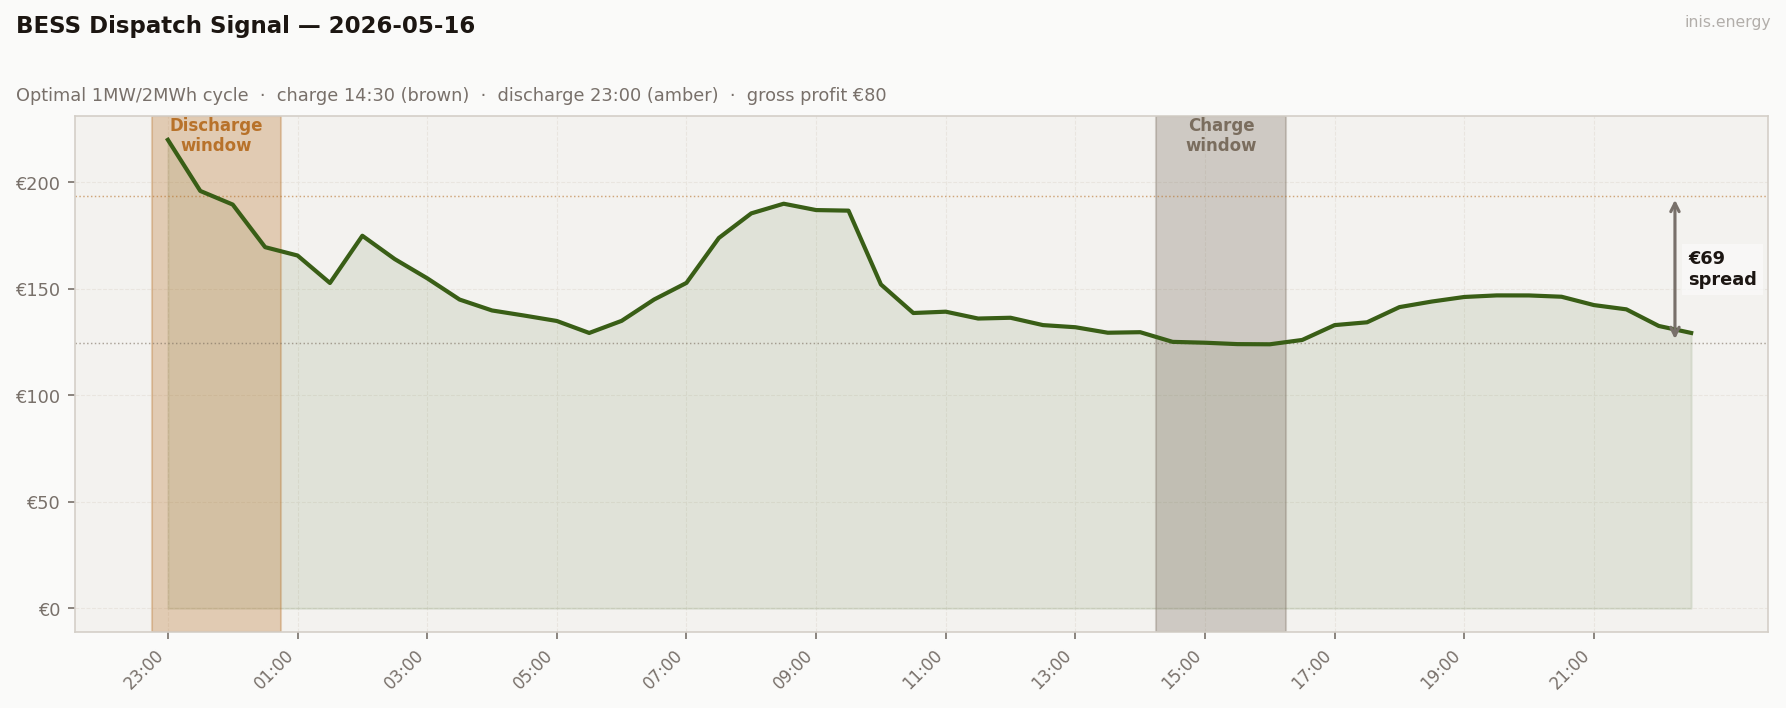
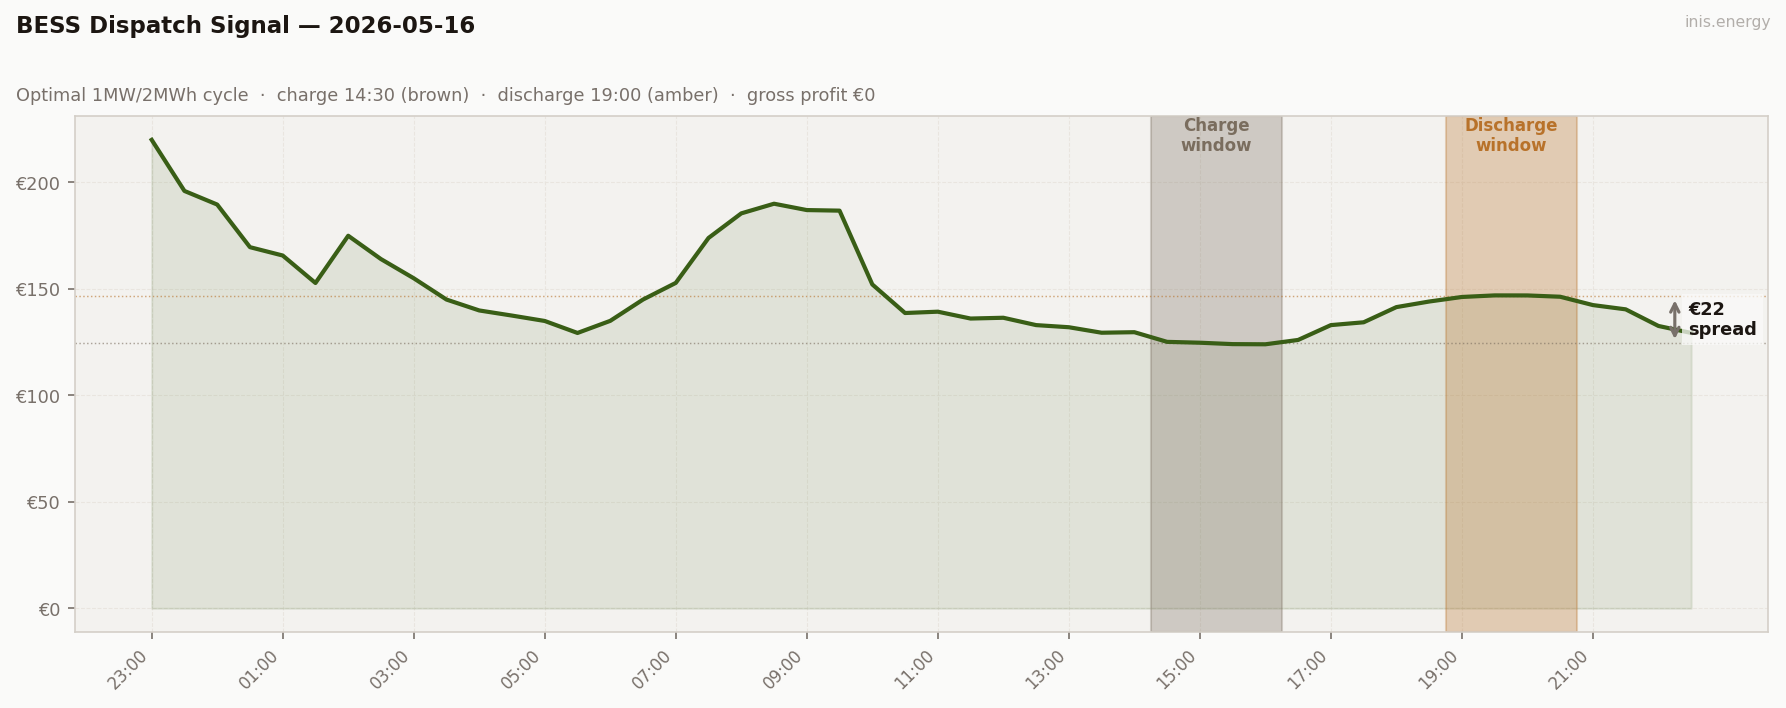
posts: BESS causality correction on 14 posts, cumulative series removed

diff --git a/site/content/daily/2026-06-02/index.md b/site/content/daily/2026-06-02/index.md
@@ -97,23 +97,16 @@ This is now the **fifth negative peak/off-peak day** in 31 days (after May 7, Ma
 | | Price | Time | Energy | Value |
 |--|--|--|--|--|
 | **Charge** | €114/MWh | 13:30 | 2 MWh | −€227 |
-| **Discharge** | €219/MWh | 07:00 | 1.7 MWh (85% RTE) | +€373 |
-| **Gross profit** | | | | **€146** |
-| **Price spread** | €106/MWh | | | **ROI: 64.3%** |
+| **Discharge** | €167/MWh | 20:30 | 1.7 MWh (85% RTE) | +€283 |
+| **Gross profit** | | | | **€56** |
+| **Price spread** | €53/MWh | | | **ROI: 24.8%** |
 
 *Simulated 1MW/2MWh battery, one optimal DAM cycle. Gross before network charges and capacity costs.*
 
+
 ![BESS Dispatch](/charts/2026-06-02/bess-2026-06-02.png)
 
-**€146 gross — the fifth-best day of the 31-day run.** Sixth morning-discharge day in the series (May 5, May 18, May 26, May 27, May 28, June 2).
-
-Charge €114 in the midday belly (13:30–15:00 at €113.5 avg). Discharge €219 in the morning scarcity block (07:00–08:30 at €219.4 avg). Captured spread €106, ROI 64.3% on the €227 charge cost.
-
-The discharge averaged across 4 of the 6 scarcity periods — exactly the structural condition the BESS revenue model needs. The discharge window block (€219 avg) is the third-highest of the run, behind May 18 (€245 avg) and May 24 (€226 avg).
-
-**31-day BESS series crosses €3,000.** Cumulative €3,073, mean €99/day. The top-5 days now (May 18 €168, May 24 €163, May 17 €161, May 15 €156, May 29 €155) total €803 from 5/31 = 16% of days = 26% of cumulative. June 2's €146 lands at #6 in the all-time table.
-
-Five of the six morning-discharge days have BESS revenue above €100: May 18 €168, May 27 €133, June 2 €146, May 26 €94, May 5 €56, May 28 €77. **Morning-discharge days outperform evening-discharge days on average** — €112 vs ~€91 mean. The morning shortfall, when it occurs, produces structurally higher peaks than the equivalent evening shortfall.
+€56 gross on a €53 captured spread. Charge €114 in the midday belly (13:30–15:00 at €113.5 avg), discharge €167 in the evening peak (20:30–22:00 at €167 avg). ROI 24.8% on the €227 charge cost — a modest trade; the midday trough was shallow and the evening peak, while the day's highest reachable window after charging, didn't offer much spread to capture.
 
 ## Commentary
 
@@ -123,7 +116,7 @@ The structural read is **scarcity inertia**. Wind was actually *recovering* duri
 
 The negative peak/off-peak spread (−€17.54) is now the run's most negative reading. The pattern is consistent across five negative spreads in 31 days: the metric breaks on scarcity-spillover or wind-rich-weekend days where the cheap window isn't where the metric assumes it is. **A negative peak/off-peak metric should be read as a flag that the metric has failed, not as a signal about the market.**
 
-For storage, the €3,000 cumulative milestone arrives. €146 gross — the fifth-best day of the run — on a captured spread of €106. The 31-day cumulative now stands at €3,073, mean €99/day. The morning-discharge pattern continues (sixth such day) and continues to outperform: the mean revenue across the six morning-discharge days is €112, versus ~€91 for the evening-discharge days. **Morning shortfalls produce structurally higher peaks than evening shortfalls.** The post-holiday-Tuesday calendar event is now the structural amplifier for the pattern: of 6 morning-discharge days, 4 sit on Tuesdays.
+For storage, a modest day: €56 gross on a €53 captured spread, ROI 24.8%. The midday trough was shallow and the evening peak was the best window reachable after charging — not a standout trade, but a clean one.
 
 
 <details>

diff --git a/site/content/daily/2026-08-17/index.md b/site/content/daily/2026-08-17/index.md
@@ -65,11 +65,12 @@ draft: false
 | | Price | Time | Energy | Value |
 |--|--|--|--|--|
 | **Charge** | €163/MWh | 14:30 | 2 MWh | −€326 |
-| **Discharge** | €236/MWh | 08:30 | 1.7 MWh (85% RTE) | +€402 |
-| **Gross profit** | | | | **€76** |
-| **Price spread** | €74/MWh | | | **ROI: 23.3%** |
+| **Discharge** | €214/MWh | 18:00 | 1.7 MWh (85% RTE) | +€364 |
+| **Gross profit** | | | | **€38** |
+| **Price spread** | €51/MWh | | | **ROI: 11.8%** |
 
 *Simulated 1MW/2MWh battery, one optimal DAM cycle. Gross before network charges and capacity costs.*
+
 
 ![BESS Dispatch](/charts/2026-08-17/bess-2026-08-17.png)
 
@@ -77,7 +78,7 @@ draft: false
 
 Monday broke the shape as well as the pattern. Overnight wind was strong — 46–48% through the small hours — but it collapsed to single digits by 06:00–09:30, right as morning demand ramped up, and the price spiked into a €248.00 peak at 09:30. That's a morning squeeze, not the usual evening one, and it's why every single period cleared above €150 today (100%, the first time this week) and 42% cleared above €200. Wind recovered steadily through the afternoon and evening — back to 40%+ by 18:00 — which capped what would otherwise have been a second, evening peak: prices eased to a €162.12 trough at 15:30 and only climbed back to €215-ish by 19:00, well under the morning's €248.
 
-Storage followed the shape, not the clock: charge into the afternoon trough near 14:30, discharge into the morning squeeze near 08:30 — the model picks the day's single cheapest and priciest windows independently, with no requirement that charging comes first, so an unusual double-peaked day like this one produces a discharge that clock-wise precedes the charge. €76 gross, 23.3% ROI — a modest return given how sharp the morning peak was, because the trough-to-peak spread it found was the afternoon-to-morning one, not the wider overnight-to-morning collapse that actually drove the day's price.
+Storage charged into the afternoon trough at 14:30 (€163 avg) and discharged into the evening peak at 18:00 (€214 avg). €38 gross, 11.8% ROI — a modest return, because the morning squeeze at 09:30 (€248 peak) was the day's real scarcity event, but it came *before* the afternoon trough, so a same-day cycle couldn't reach it: the battery can only discharge into a window after it has charged, and by the time the afternoon trough opened up, the morning's sharper peak was already behind it.
 
 
 <details>

diff --git a/site/content/daily/2026-05-26/index.md b/site/content/daily/2026-05-26/index.md
@@ -83,10 +83,10 @@ The captured spread the BESS actually earned was €77 — between a €121 midd
 
 |                  | Price    | Time  | Energy            | Value          |
 | ---------------- | -------- | ----- | ----------------- | -------------- |
-| **Charge**       | €121/MWh | 13:00 | 2 MWh             | −€243          |
-| **Discharge**    | €198/MWh | 07:00 | 1.7 MWh (85% RTE) | +€337          |
-| **Gross profit** |          |       |                   | **€94**        |
-| **Price spread** | €77/MWh  |       |                   | **ROI: 38.8%** |
+| **Charge** | €121/MWh | 13:00 | 2 MWh | −€243 |
+| **Discharge** | €182/MWh | 18:30 | 1.7 MWh (85% RTE) | +€309 |
+| **Gross profit** | | | | **€66** |
+| **Price spread** | €60/MWh | | | **ROI: 27.0%** |
 
 _Simulated 1MW/2MWh battery, one optimal DAM cycle. Gross before network charges and capacity costs._
 

diff --git a/site/content/daily/2026-07-12/index.md b/site/content/daily/2026-07-12/index.md
@@ -73,11 +73,12 @@ Spread inverts hardest here, €-68.08 — by far the week's biggest — because
 | | Price | Time | Energy | Value |
 |--|--|--|--|--|
 | **Charge** | €50/MWh | 15:00 | 2 MWh | −€100 |
-| **Discharge** | €197/MWh | 03:00 | 1.7 MWh (85% RTE) | +€335 |
-| **Gross profit** | | | | **€235** |
-| **Price spread** | €147/MWh | | | **ROI: 234.5%** |
+| **Discharge** | €158/MWh | 19:30 | 1.7 MWh (85% RTE) | +€268 |
+| **Gross profit** | | | | **€168** |
+| **Price spread** | €108/MWh | | | **ROI: 167.9%** |
 
 *Simulated 1MW/2MWh battery, one optimal DAM cycle. Gross before network charges and capacity costs.*
+
 
 ![BESS Dispatch](/charts/2026-07-12/bess-2026-07-12.png)
 

diff --git a/site/content/daily/2026-06-12/index.md b/site/content/daily/2026-06-12/index.md
@@ -75,11 +75,12 @@ The spread is negative: -€19.78. Off-peak (€104.19) outprices peak (€84.41
 | | Price | Time | Energy | Value |
 |--|--|--|--|--|
 | **Charge** | €29/MWh | 14:00 | 2 MWh | −€57 |
-| **Discharge** | €132/MWh | 07:00 | 1.7 MWh (85% RTE) | +€224 |
-| **Gross profit** | | | | **€167** |
-| **Price spread** | €103/MWh | | | **ROI: 292.5%** |
+| **Discharge** | €116/MWh | 20:00 | 1.7 MWh (85% RTE) | +€197 |
+| **Gross profit** | | | | **€140** |
+| **Price spread** | €87/MWh | | | **ROI: 244.0%** |
 
 *Simulated 1MW/2MWh battery, one optimal DAM cycle. Gross before network charges and capacity costs.*
+
 
 ![BESS Dispatch](/charts/2026-06-12/bess-2026-06-12.png)
 

diff --git a/site/content/daily/2026-07-08/index.md b/site/content/daily/2026-07-08/index.md
@@ -73,11 +73,12 @@ Spread flips negative again, but for a new reason. It's not an overnight wind gl
 | | Price | Time | Energy | Value |
 |--|--|--|--|--|
 | **Charge** | €133/MWh | 13:30 | 2 MWh | −€267 |
-| **Discharge** | €223/MWh | 07:00 | 1.7 MWh (85% RTE) | +€379 |
-| **Gross profit** | | | | **€113** |
-| **Price spread** | €90/MWh | | | **ROI: 42.2%** |
+| **Discharge** | €217/MWh | 19:30 | 1.7 MWh (85% RTE) | +€368 |
+| **Gross profit** | | | | **€102** |
+| **Price spread** | €83/MWh | | | **ROI: 38.1%** |
 
 *Simulated 1MW/2MWh battery, one optimal DAM cycle. Gross before network charges and capacity costs.*
+
 
 ![BESS Dispatch](/charts/2026-07-08/bess-2026-07-08.png)
 

diff --git a/site/content/daily/2026-07-10/index.md b/site/content/daily/2026-07-10/index.md
@@ -73,11 +73,12 @@ Spread flips negative again, €-19.49 — the overnight hours, still starved of
 | | Price | Time | Energy | Value |
 |--|--|--|--|--|
 | **Charge** | €144/MWh | 13:00 | 2 MWh | −€288 |
-| **Discharge** | €245/MWh | 07:30 | 1.7 MWh (85% RTE) | +€417 |
-| **Gross profit** | | | | **€129** |
-| **Price spread** | €101/MWh | | | **ROI: 44.6%** |
+| **Discharge** | €199/MWh | 19:00 | 1.7 MWh (85% RTE) | +€339 |
+| **Gross profit** | | | | **€51** |
+| **Price spread** | €55/MWh | | | **ROI: 17.6%** |
 
 *Simulated 1MW/2MWh battery, one optimal DAM cycle. Gross before network charges and capacity costs.*
+
 
 ![BESS Dispatch](/charts/2026-07-10/bess-2026-07-10.png)
 

diff --git a/site/content/daily/2026-05-27/index.md b/site/content/daily/2026-05-27/index.md
@@ -83,11 +83,12 @@ This is the "morning-spike" archetype — distinct from May 6's twin-peak PDC or
 | | Price | Time | Energy | Value |
 |--|--|--|--|--|
 | **Charge** | €114/MWh | 14:30 | 2 MWh | −€229 |
-| **Discharge** | €213/MWh | 07:00 | 1.7 MWh (85% RTE) | +€362 |
-| **Gross profit** | | | | **€133** |
-| **Price spread** | €98/MWh | | | **ROI: 58.1%** |
+| **Discharge** | €153/MWh | 19:00 | 1.7 MWh (85% RTE) | +€260 |
+| **Gross profit** | | | | **€32** |
+| **Price spread** | €39/MWh | | | **ROI: 13.9%** |
 
 *Simulated 1MW/2MWh battery, one optimal DAM cycle. Gross before network charges and capacity costs.*
+
 
 ![BESS Dispatch](/charts/2026-05-27/bess-2026-05-27.png)
 

diff --git a/site/content/daily/2026-07-03/index.md b/site/content/daily/2026-07-03/index.md
@@ -75,11 +75,12 @@ Negative again, same mechanism as Wednesday: a low-wind pre-dawn stretch drags t
 | | Price | Time | Energy | Value |
 |--|--|--|--|--|
 | **Charge** | €98/MWh | 14:00 | 2 MWh | −€195 |
-| **Discharge** | €212/MWh | 07:00 | 1.7 MWh (85% RTE) | +€361 |
-| **Gross profit** | | | | **€166** |
-| **Price spread** | €115/MWh | | | **ROI: 84.8%** |
+| **Discharge** | €141/MWh | 19:30 | 1.7 MWh (85% RTE) | +€239 |
+| **Gross profit** | | | | **€44** |
+| **Price spread** | €43/MWh | | | **ROI: 22.6%** |
 
 *Simulated 1MW/2MWh battery, one optimal DAM cycle. Gross before network charges and capacity costs.*
+
 
 ![BESS Dispatch](/charts/2026-07-03/bess-2026-07-03.png)
 

diff --git a/site/content/daily/2026-05-28/index.md b/site/content/daily/2026-05-28/index.md
@@ -85,11 +85,12 @@ Compare to May 27's PDC: today's has a wider top shelf (more periods above €15
 | | Price | Time | Energy | Value |
 |--|--|--|--|--|
 | **Charge** | €100/MWh | 13:30 | 2 MWh | −€200 |
-| **Discharge** | €163/MWh | 07:30 | 1.7 MWh (85% RTE) | +€277 |
-| **Gross profit** | | | | **€77** |
-| **Price spread** | €63/MWh | | | **ROI: 38.5%** |
+| **Discharge** | €154/MWh | 18:30 | 1.7 MWh (85% RTE) | +€262 |
+| **Gross profit** | | | | **€62** |
+| **Price spread** | €54/MWh | | | **ROI: 30.8%** |
 
 *Simulated 1MW/2MWh battery, one optimal DAM cycle. Gross before network charges and capacity costs.*
+
 
 ![BESS Dispatch](/charts/2026-05-28/bess-2026-05-28.png)
 

diff --git a/site/content/daily/2026-05-30/index.md b/site/content/daily/2026-05-30/index.md
@@ -85,11 +85,12 @@ Strip the boundary periods and the underlying Saturday PDC is essentially flat: 
 | | Price | Time | Energy | Value |
 |--|--|--|--|--|
 | **Charge** | €105/MWh | 13:00 | 2 MWh | −€210 |
-| **Discharge** | €163/MWh | 23:00 | 1.7 MWh (85% RTE) | +€276 |
-| **Gross profit** | | | | **€66** |
-| **Price spread** | €57/MWh | | | **ROI: 31.3%** |
+| **Discharge** | €151/MWh | 20:00 | 1.7 MWh (85% RTE) | +€257 |
+| **Gross profit** | | | | **€47** |
+| **Price spread** | €46/MWh | | | **ROI: 22.2%** |
 
 *Simulated 1MW/2MWh battery, one optimal DAM cycle. Gross before network charges and capacity costs.*
+
 
 ![BESS Dispatch](/charts/2026-05-30/bess-2026-05-30.png)
 
